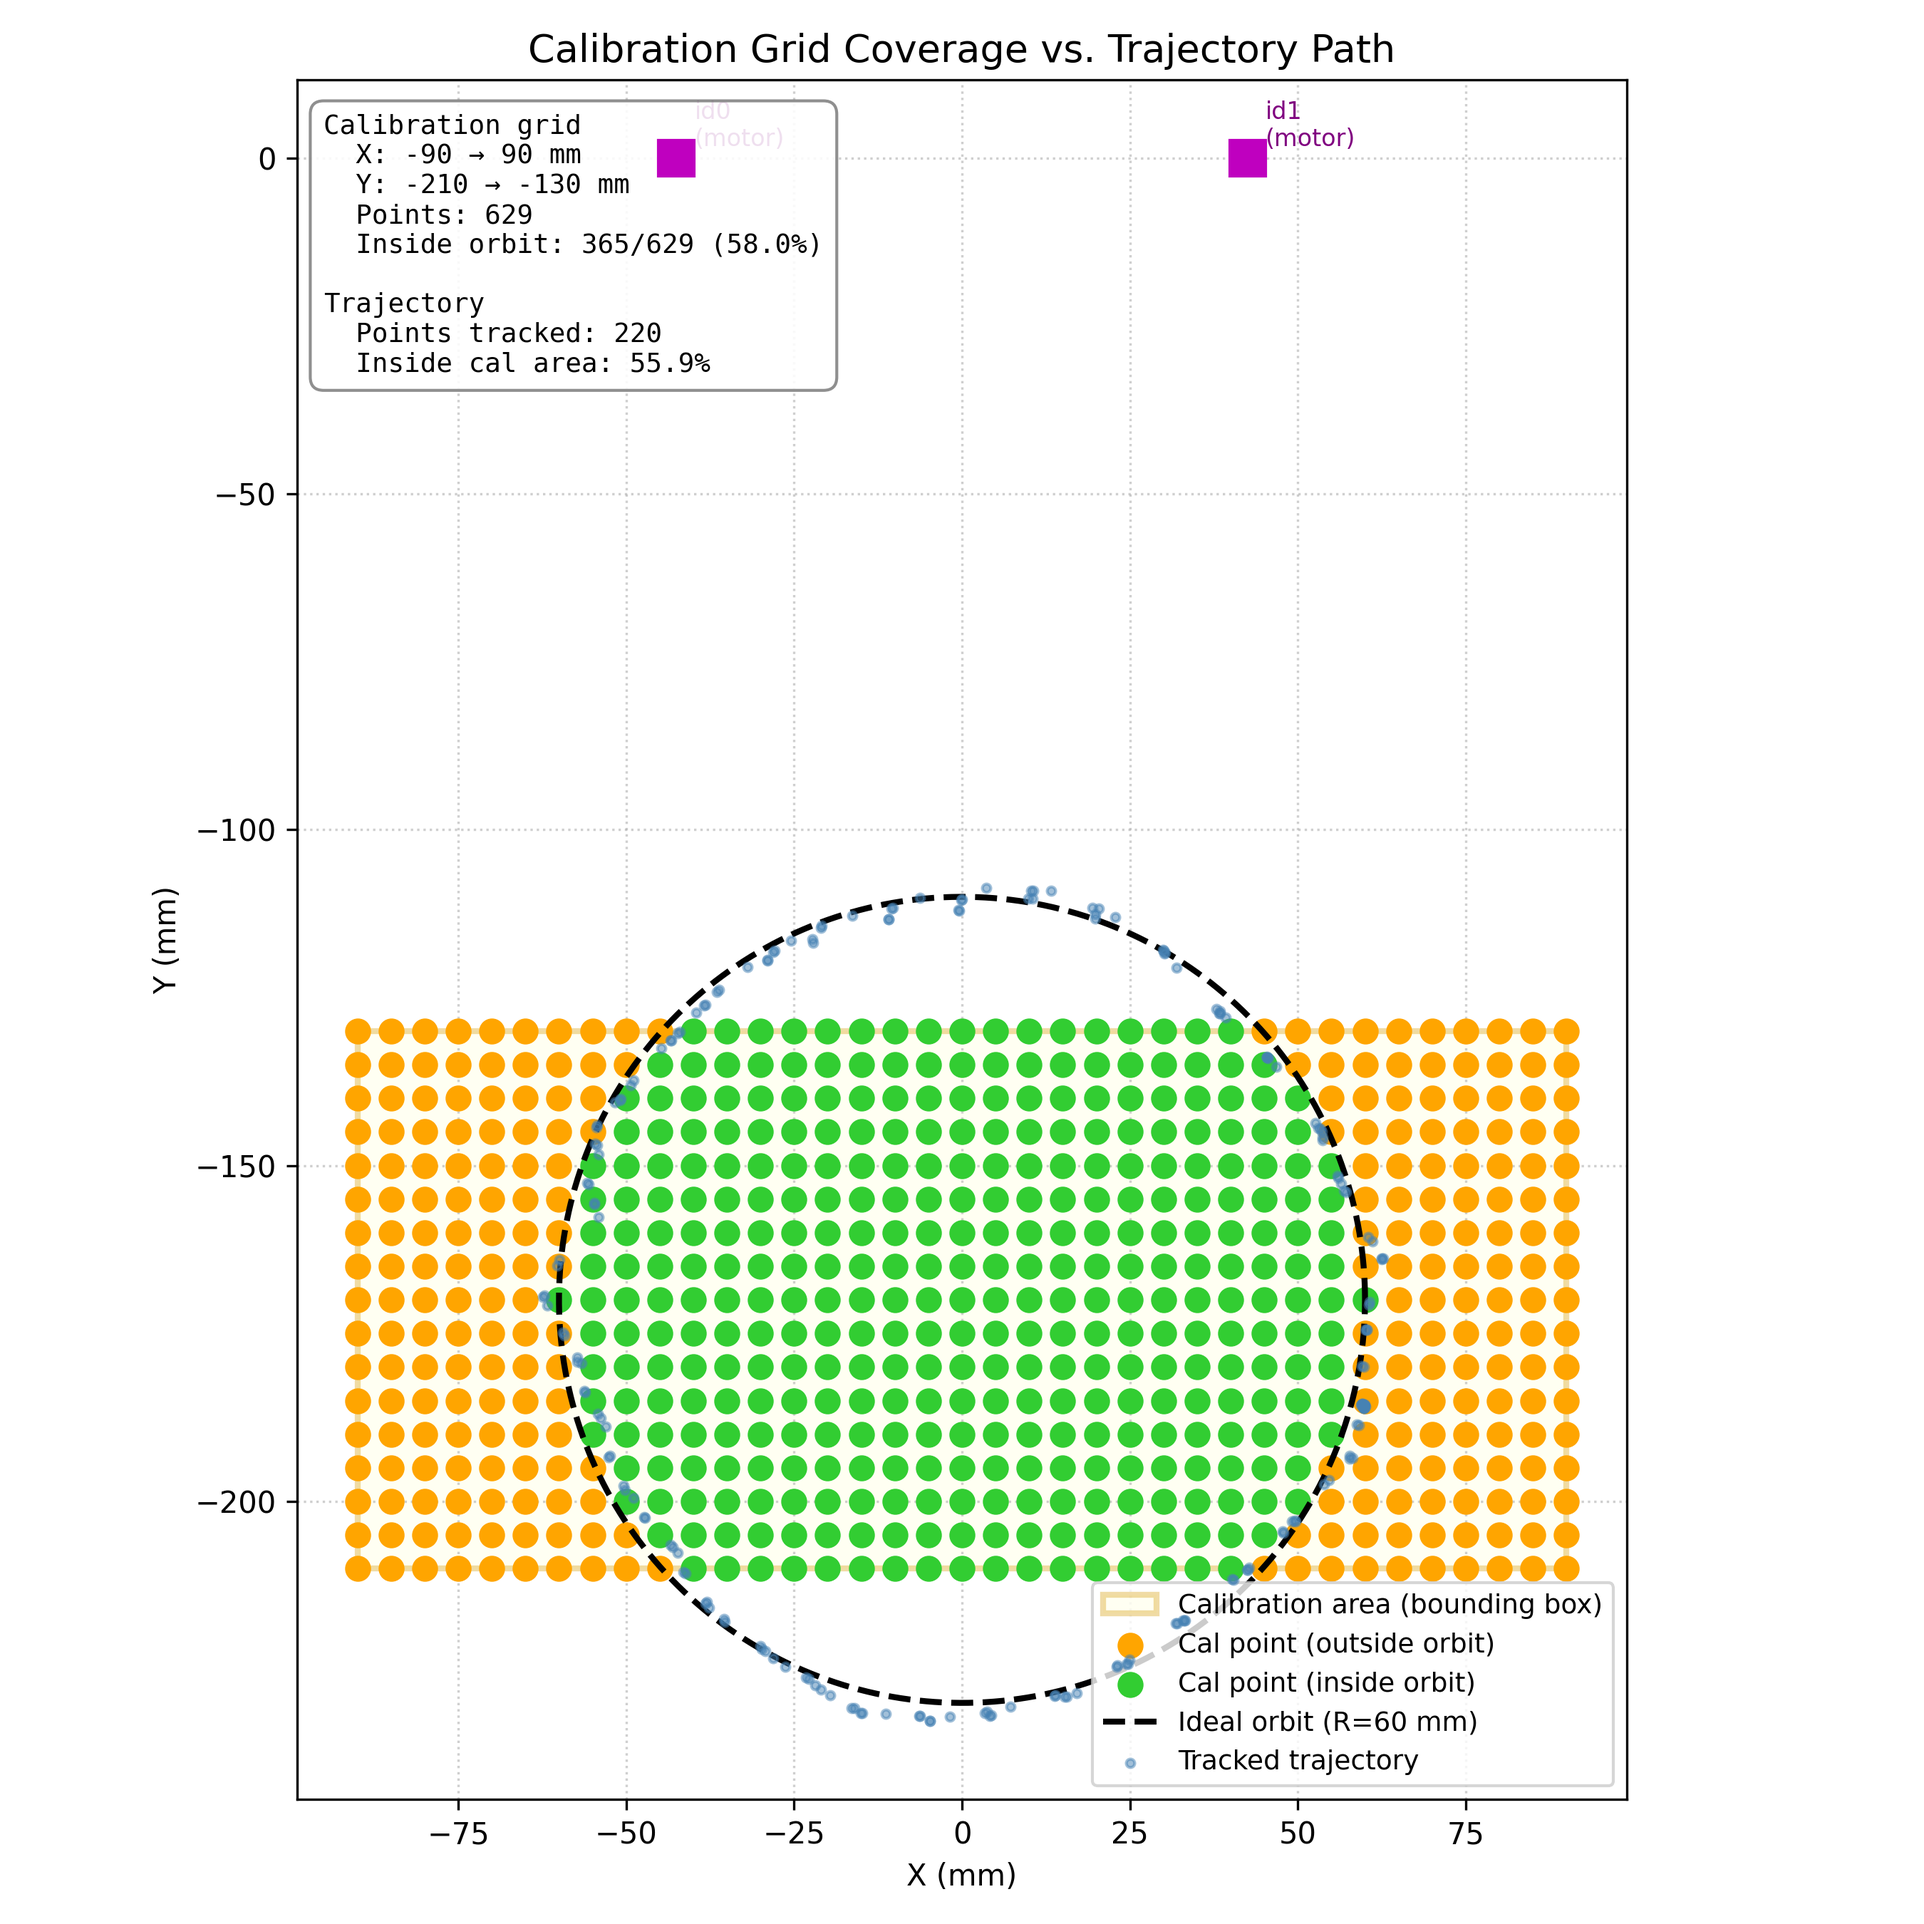
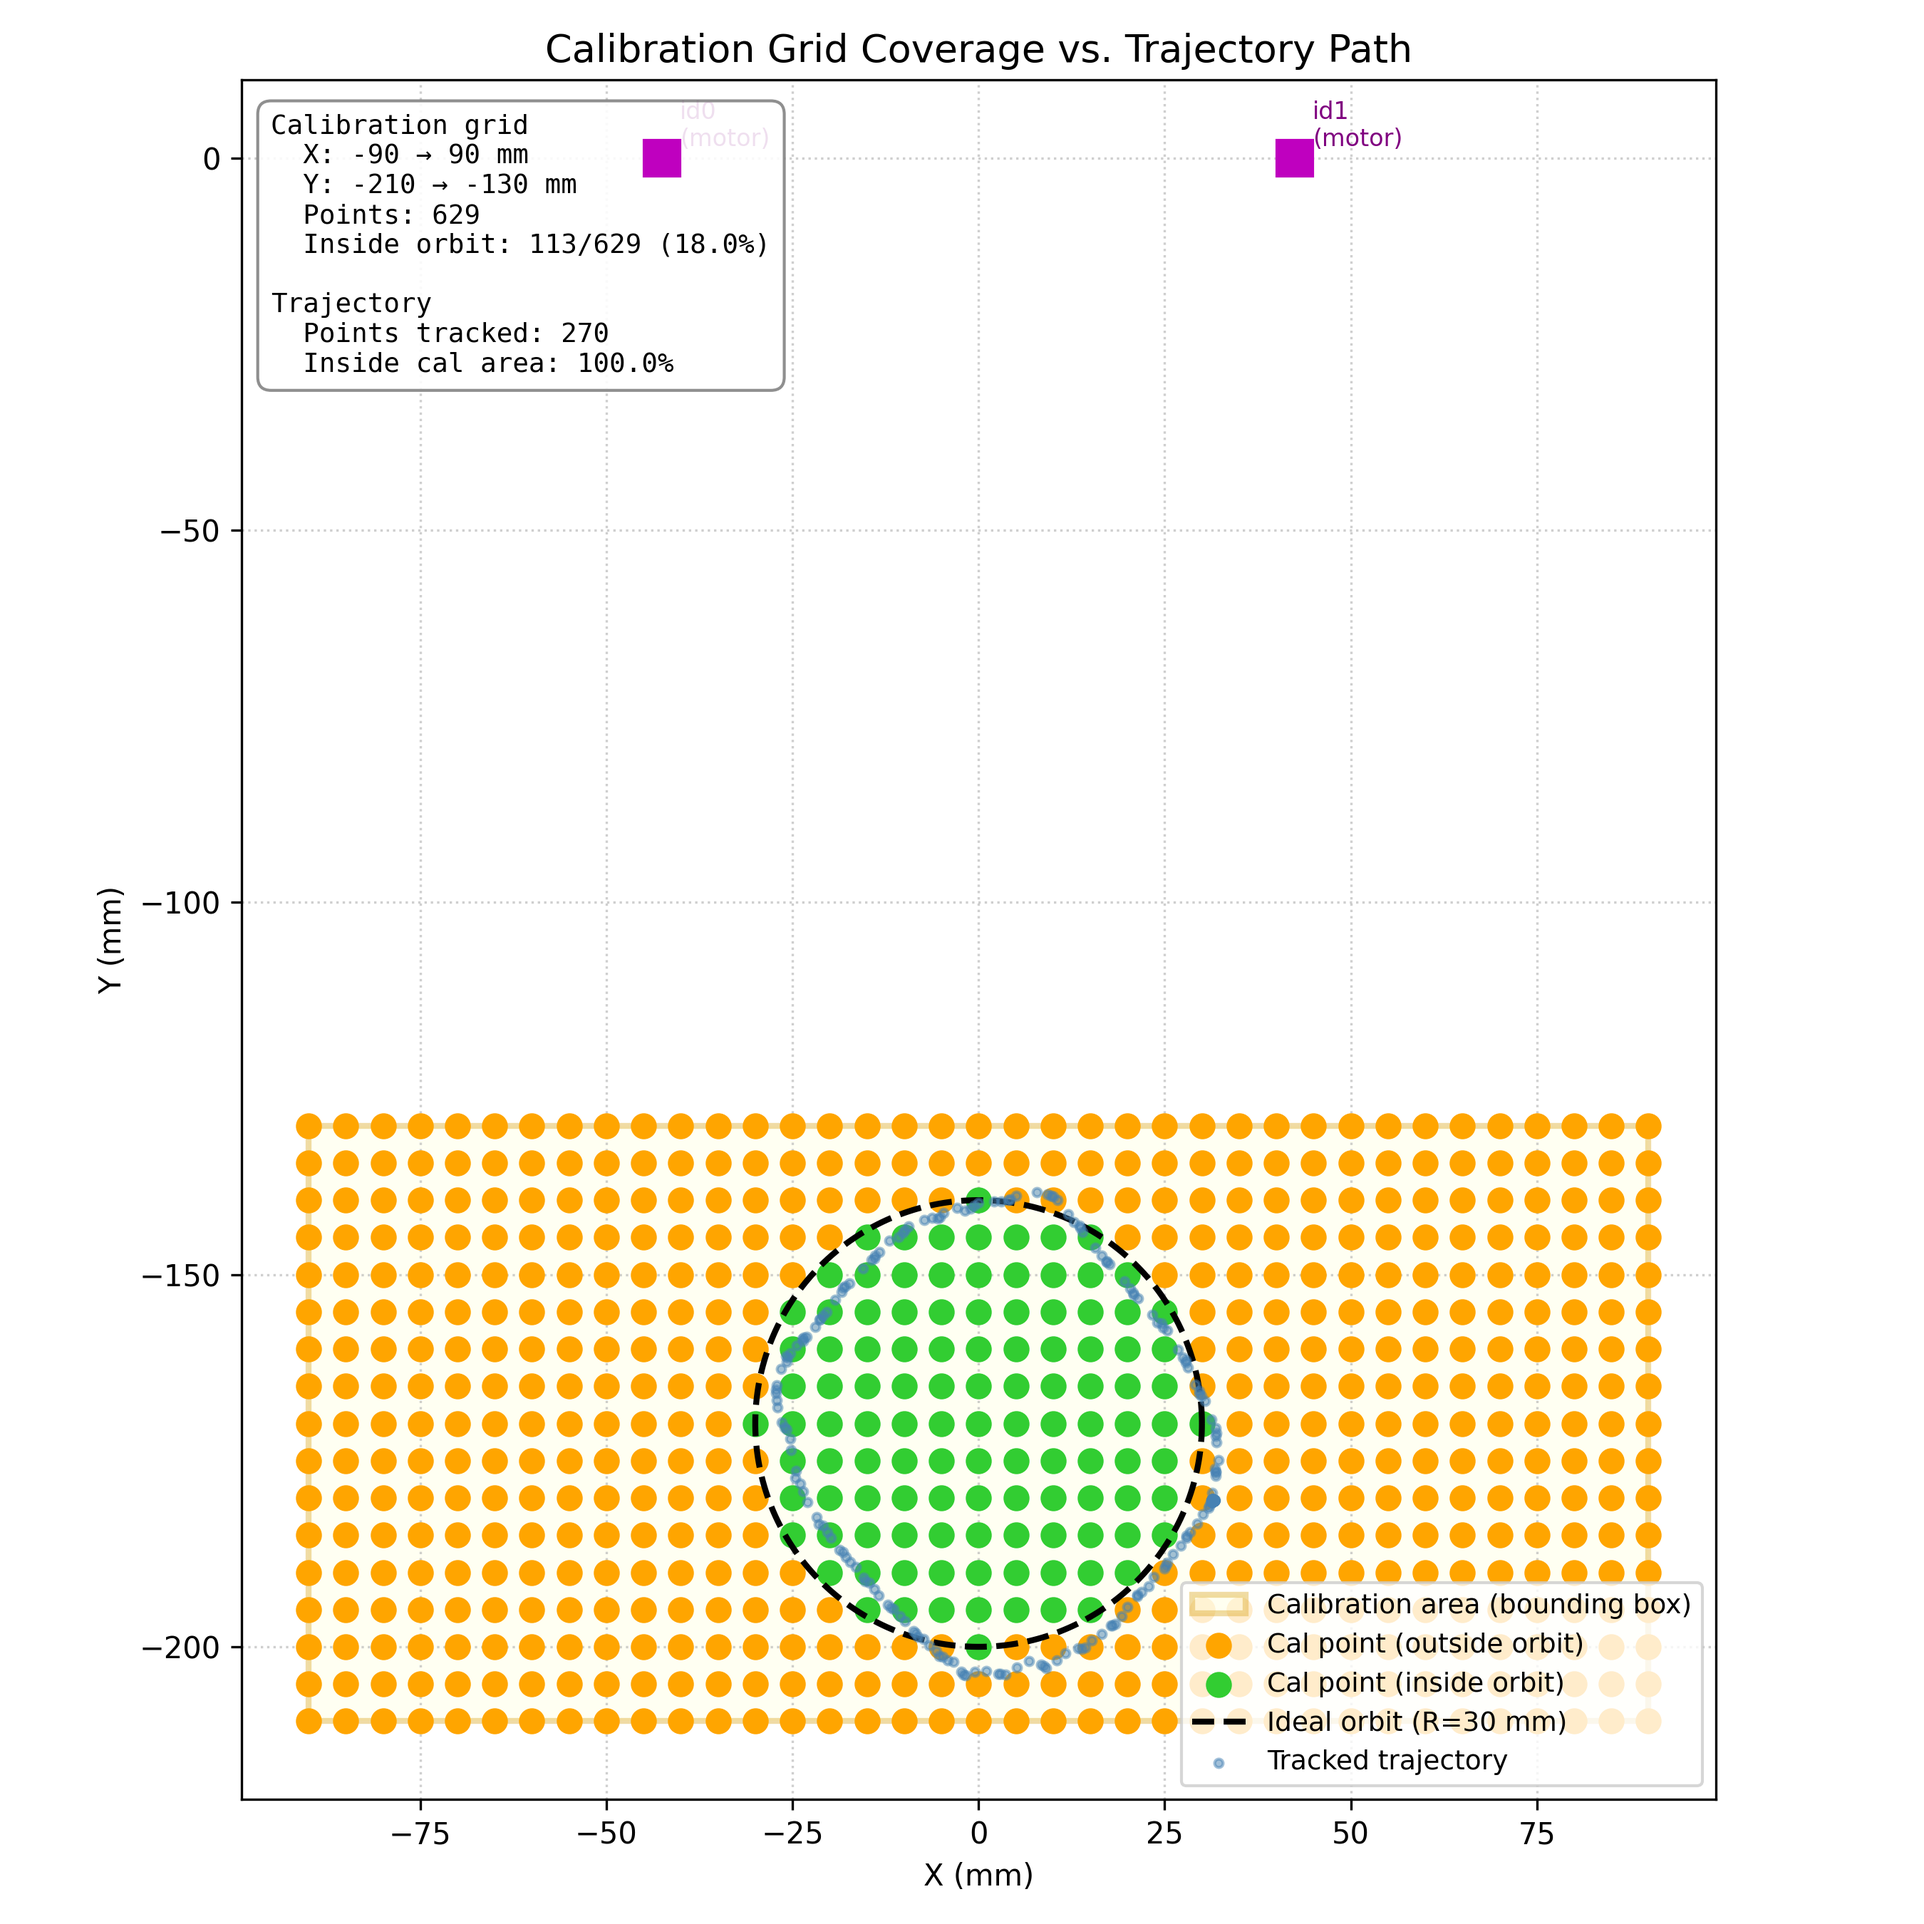
Update video path and radius for calibration coverage checks

diff --git a/python/paper_testing/test_2/calibration_coverage_check.py b/python/paper_testing/test_2/calibration_coverage_check.py
@@ -26,7 +26,7 @@ from matplotlib.collections import PatchCollection
 # ─────────────────────────────────────────
 # 1. CONFIG  (แก้ค่าที่นี่)
 # ─────────────────────────────────────────
-VIDEO_PATH  = r"D:\THESIS\model_forest.MOV"
+VIDEO_PATH  = r"D:\THESIS\model_poly4.MOV"
 CALIB_FILE  = os.path.join(os.path.dirname(os.path.abspath(__file__)), 
                            "output", "params", "calibration_olympus25f1.2.npz")
 GRID_CSV    = os.path.join(os.path.dirname(os.path.abspath(__file__)),
@@ -44,7 +44,7 @@ REF_WORLD = {
 # วงโคจรอุดมคติ
 CENTER_X_MM = 0.0
 CENTER_Y_MM = -170.0
-RADIUS_MM   = 60.0
+RADIUS_MM   = 30.0
 
 # output paths
 OUT_VIDEO   = os.path.join(os.path.dirname(os.path.abspath(VIDEO_PATH)),

diff --git a/python/paper_testing/test_2/vision_based_trajectory_eval.py b/python/paper_testing/test_2/vision_based_trajectory_eval.py
@@ -32,7 +32,7 @@ FRAME_STEP  = 1      # ประมวลผลทุก N เฟรม (1 = ท
 
 CENTER_X_MM = 0.0       # จุดศูนย์กลางวงโคจรอุดมคติ แกน X
 CENTER_Y_MM = -170.0    # จุดศูนย์กลางวงโคจรอุดมคติ แกน Y
-RADIUS_MM   = 60.0      # รัศมีวงโคจรอุดมคติ
+RADIUS_MM   = 30.0      # รัศมีวงโคจรอุดมคติ
 
 # ==========================================
 # 2. Helper: แปลงผล detectMarkers เป็น dict {id: center_px}
